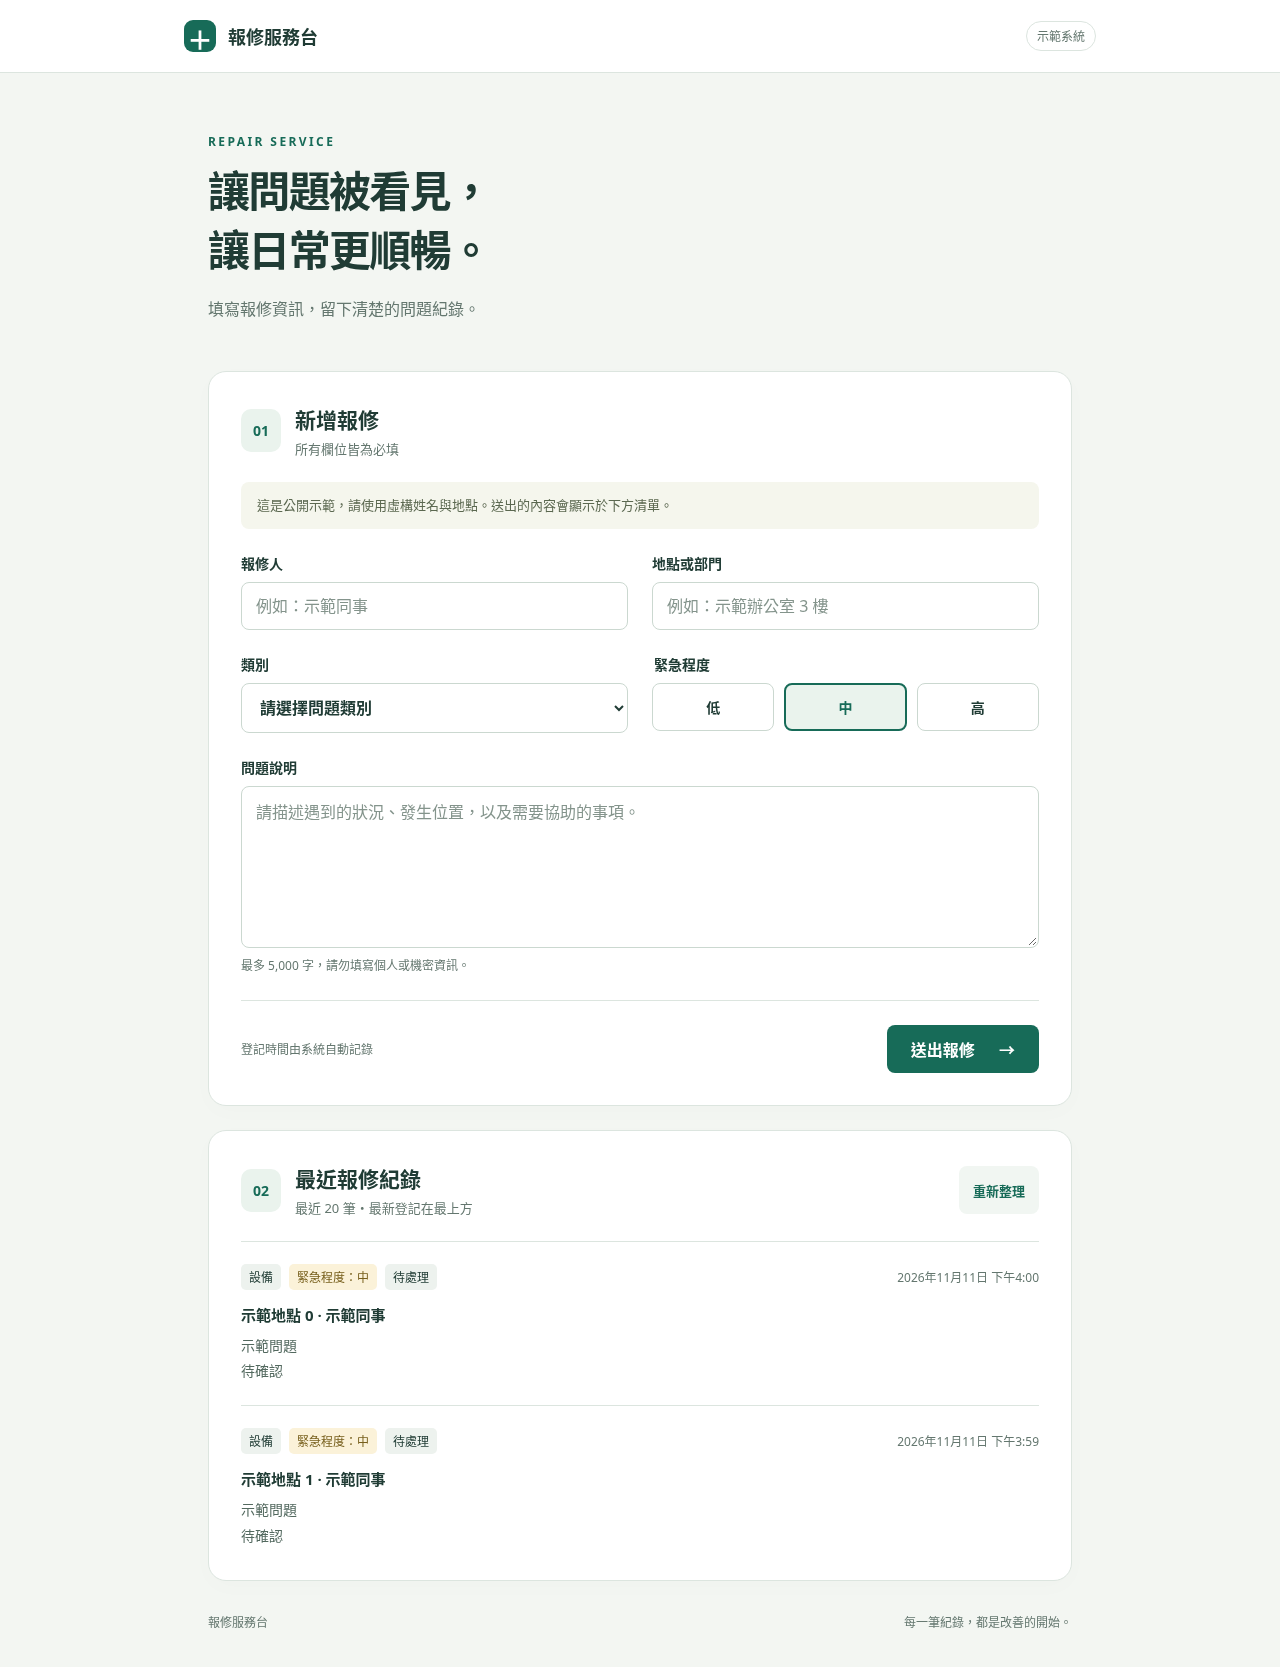
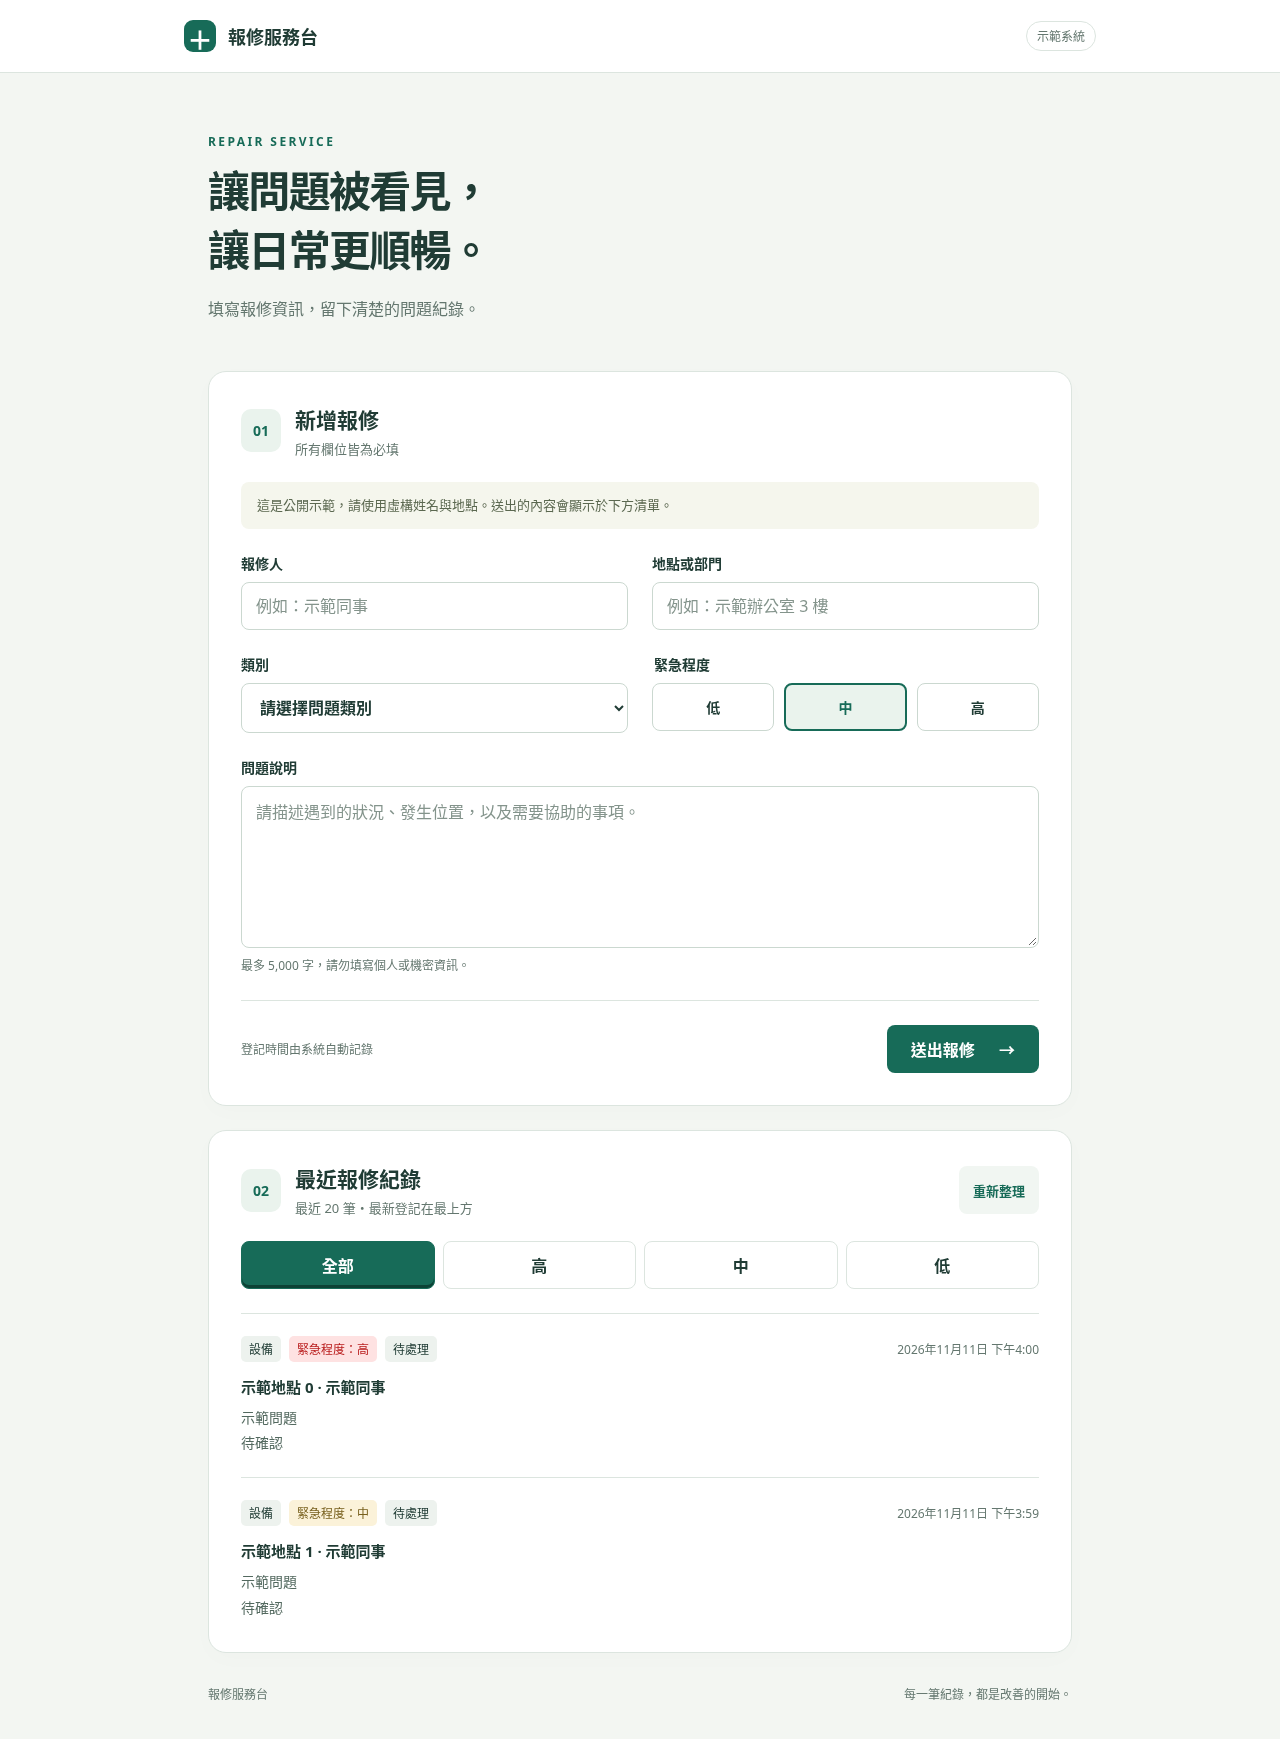
新增清單緊急程度篩選與紅色高緊急標籤

diff --git a/app.js b/app.js
@@ -8,6 +8,11 @@
   const formMessage = document.querySelector("#form-message");
   const listMessage = document.querySelector("#list-message");
   const list = document.querySelector("#request-list");
+  const filterButtons = document.querySelectorAll("[data-filter]");
+  const filterMessage = document.querySelector("#filter-message");
+  let loadedRequests = [];
+  let activeFilter = "全部";
+  let hasLoaded = false;
   const categories = ["設備", "網路", "環境", "其他"];
   const urgencies = ["低", "中", "高"];
   let client;
@@ -69,6 +74,32 @@
     }
   }
 
+  function renderFilteredRequests() {
+    const visibleRequests =
+      activeFilter === "全部"
+        ? loadedRequests
+        : loadedRequests.filter((request) => request.urgency === activeFilter);
+    renderRequests(visibleRequests);
+    showMessage(
+      filterMessage,
+      hasLoaded && activeFilter !== "全部"
+        ? visibleRequests.length
+          ? `目前顯示緊急程度「${activeFilter}」的 ${visibleRequests.length} 筆報修（限已載入的最近 20 筆）。`
+          : `已載入的清單中沒有緊急程度「${activeFilter}」的報修。`
+        : "",
+    );
+  }
+
+  filterButtons.forEach((button) => {
+    button.addEventListener("click", () => {
+      activeFilter = button.dataset.filter;
+      filterButtons.forEach((option) => {
+        option.setAttribute("aria-pressed", String(option === button));
+      });
+      renderFilteredRequests();
+    });
+  });
+
   async function loadRequests() {
     refreshButton.disabled = true;
     list.setAttribute("aria-busy", "true");
@@ -82,13 +113,17 @@
         .order("created_at", { ascending: false })
         .limit(20);
       if (error) throw error;
-      renderRequests(data || []);
+      loadedRequests = data || [];
+      hasLoaded = true;
+      renderFilteredRequests();
       showMessage(
         listMessage,
         data?.length ? "" : "目前還沒有報修紀錄，填寫上方表單即可新增。",
       );
     } catch (error) {
-      const retained = list.children.length ? "（下方保留上次載入的紀錄）" : "";
+      const retained = loadedRequests.length
+        ? "（下方保留上次載入的紀錄）"
+        : "";
       showMessage(
         listMessage,
         `清單載入失敗${retained}：${errorDetail(error)} 請按「重新整理」重試。`,

diff --git a/index.html b/index.html
@@ -136,6 +136,47 @@
             重新整理
           </button>
         </div>
+        <div class="urgency-filters" role="group" aria-label="依緊急程度篩選">
+          <button
+            type="button"
+            data-filter="全部"
+            aria-pressed="true"
+            aria-controls="request-list"
+          >
+            全部
+          </button>
+          <button
+            type="button"
+            data-filter="高"
+            aria-pressed="false"
+            aria-controls="request-list"
+          >
+            高
+          </button>
+          <button
+            type="button"
+            data-filter="中"
+            aria-pressed="false"
+            aria-controls="request-list"
+          >
+            中
+          </button>
+          <button
+            type="button"
+            data-filter="低"
+            aria-pressed="false"
+            aria-controls="request-list"
+          >
+            低
+          </button>
+        </div>
+        <p
+          id="filter-message"
+          class="message"
+          role="status"
+          aria-live="polite"
+          hidden
+        ></p>
         <p id="list-message" class="message" role="status" aria-live="polite">
           正在載入報修紀錄…
         </p>

diff --git a/style.css b/style.css
@@ -294,8 +294,8 @@ button:disabled {
   font-size: 12px;
 }
 .badge[data-urgency="高"] {
-  background: #ffede7;
-  color: #a13f23;
+  background: #fee2e2;
+  color: #b91c1c;
 }
 .badge[data-urgency="中"] {
   background: #fbf2d9;
@@ -366,4 +366,28 @@ button:disabled {
     flex-direction: column;
     gap: 6px;
   }
+}
+
+.urgency-filters {
+  display: flex;
+  gap: 8px;
+  margin-top: 24px;
+}
+.urgency-filters button {
+  flex: 1;
+  min-width: 0;
+  min-height: 48px;
+  padding: 10px 12px;
+  border: 1px solid var(--line);
+  background: #fff;
+  color: var(--ink);
+}
+.urgency-filters button:hover {
+  background: #eaf3ed;
+}
+.urgency-filters button[aria-pressed="true"] {
+  background: var(--green);
+  border-color: var(--green);
+  color: #fff;
+  box-shadow: inset 0 -3px 0 #0c4235;
 }

diff --git a/README.md b/README.md
@@ -13,6 +13,14 @@
 
 表單送出 `reporter_name`、`location`、`category`、`description`、`urgency`；不送出 `status`、`id` 或 `created_at`，由資料庫產生。清單依 `created_at` 降冪取 20 筆，登記時間顯示為台北時間。新增成功後清空表單並刷新清單；失敗時保留表單，清單可手動重試。
 
+## 緊急程度篩選
+
+清單上方提供「全部／高／中／低」按鈕，預設選取「全部」，選取的按鈕以深綠底與白字顯示。點選後只篩選網頁已載入的最近 20 筆紀錄，不會額外查詢資料庫，也不代表所有歷史報修。若該程度沒有資料，畫面會顯示提示；按「全部」可恢復原清單順序。
+
+緊急程度「高」的標籤使用紅字與淡紅底。重新整理清單或送出新報修後，仍維持目前篩選；重新載入整個網頁則回到「全部」。本次未變更資料庫、欄位、權限或 `supabase/` 內任何檔案。
+
+手機確認：在電腦切換到 PR 分支 `feat/urgency-list-filter`，執行 `python3 -m http.server 8000`；手機與電腦連同一個 Wi-Fi，開啟 `http://電腦的區域網路IP:8000`（電腦須允許區域網路存取此連接埠）。依序點「高／中／低／全部」，檢查選取樣式、顯示內容與空清單提示，並確認「高」標籤為紅色。PR 尚未合併時，正式 GitHub Pages 網站不會包含這次變更。
+
 ## 開發與檢查
 
 Node.js 18 以上，先執行 `npm ci`。正式網站不依賴 Node.js。
